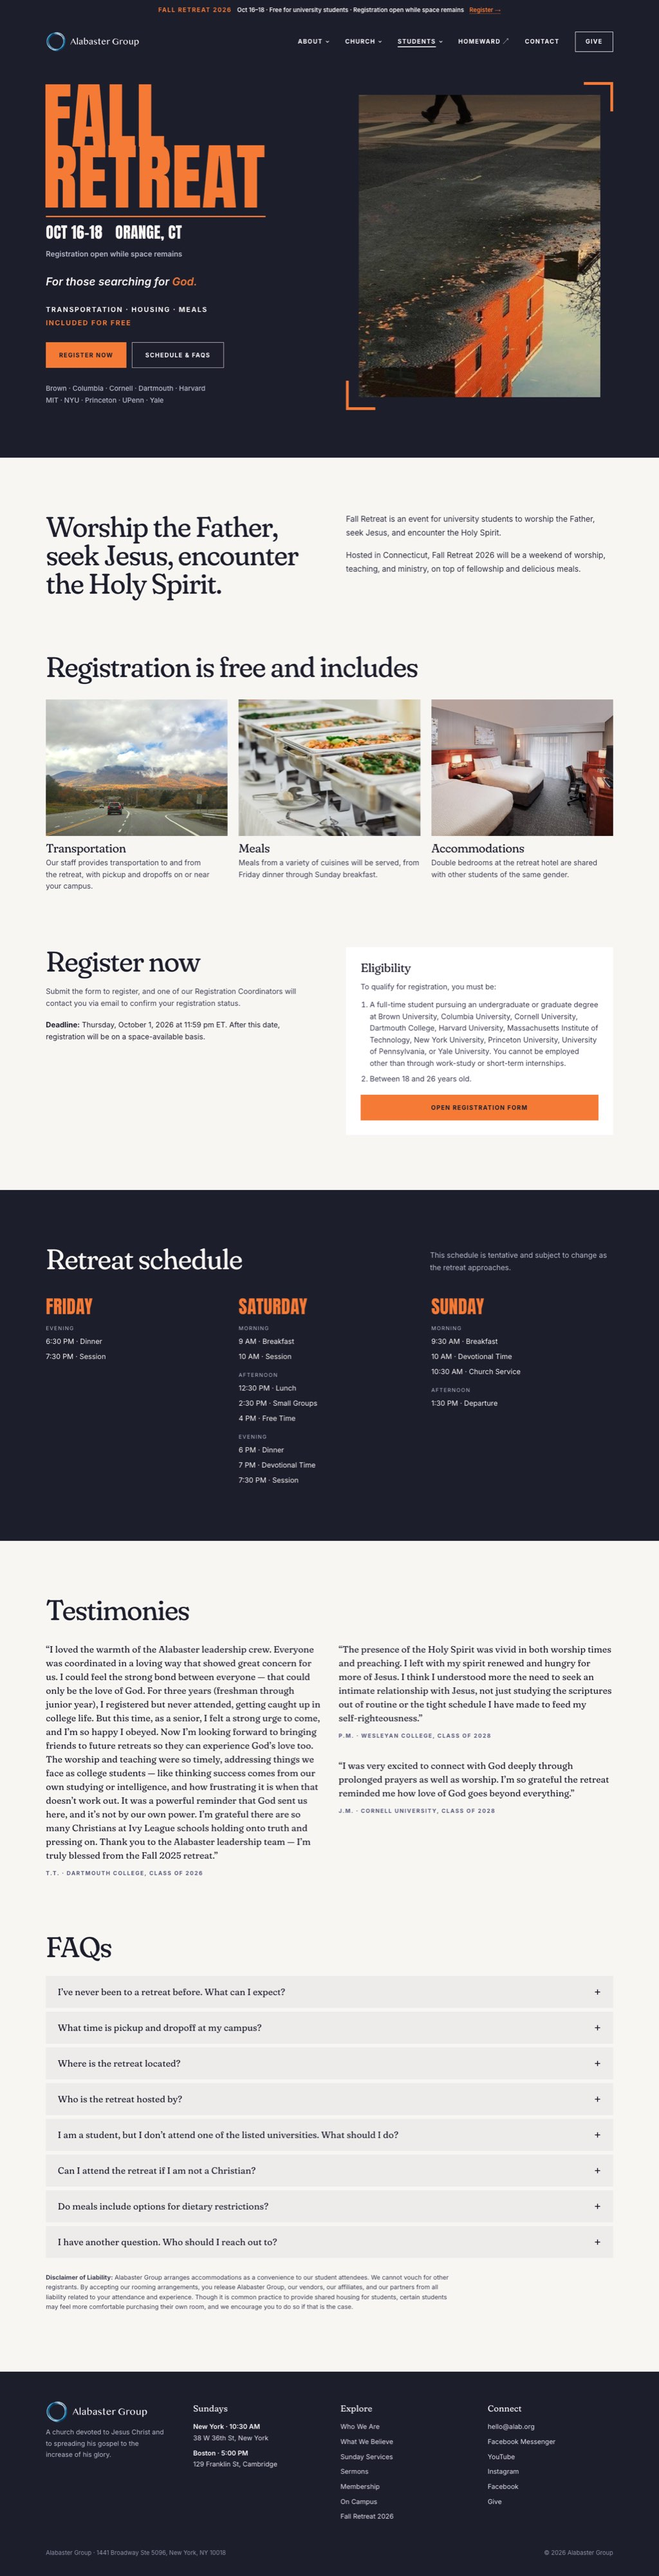
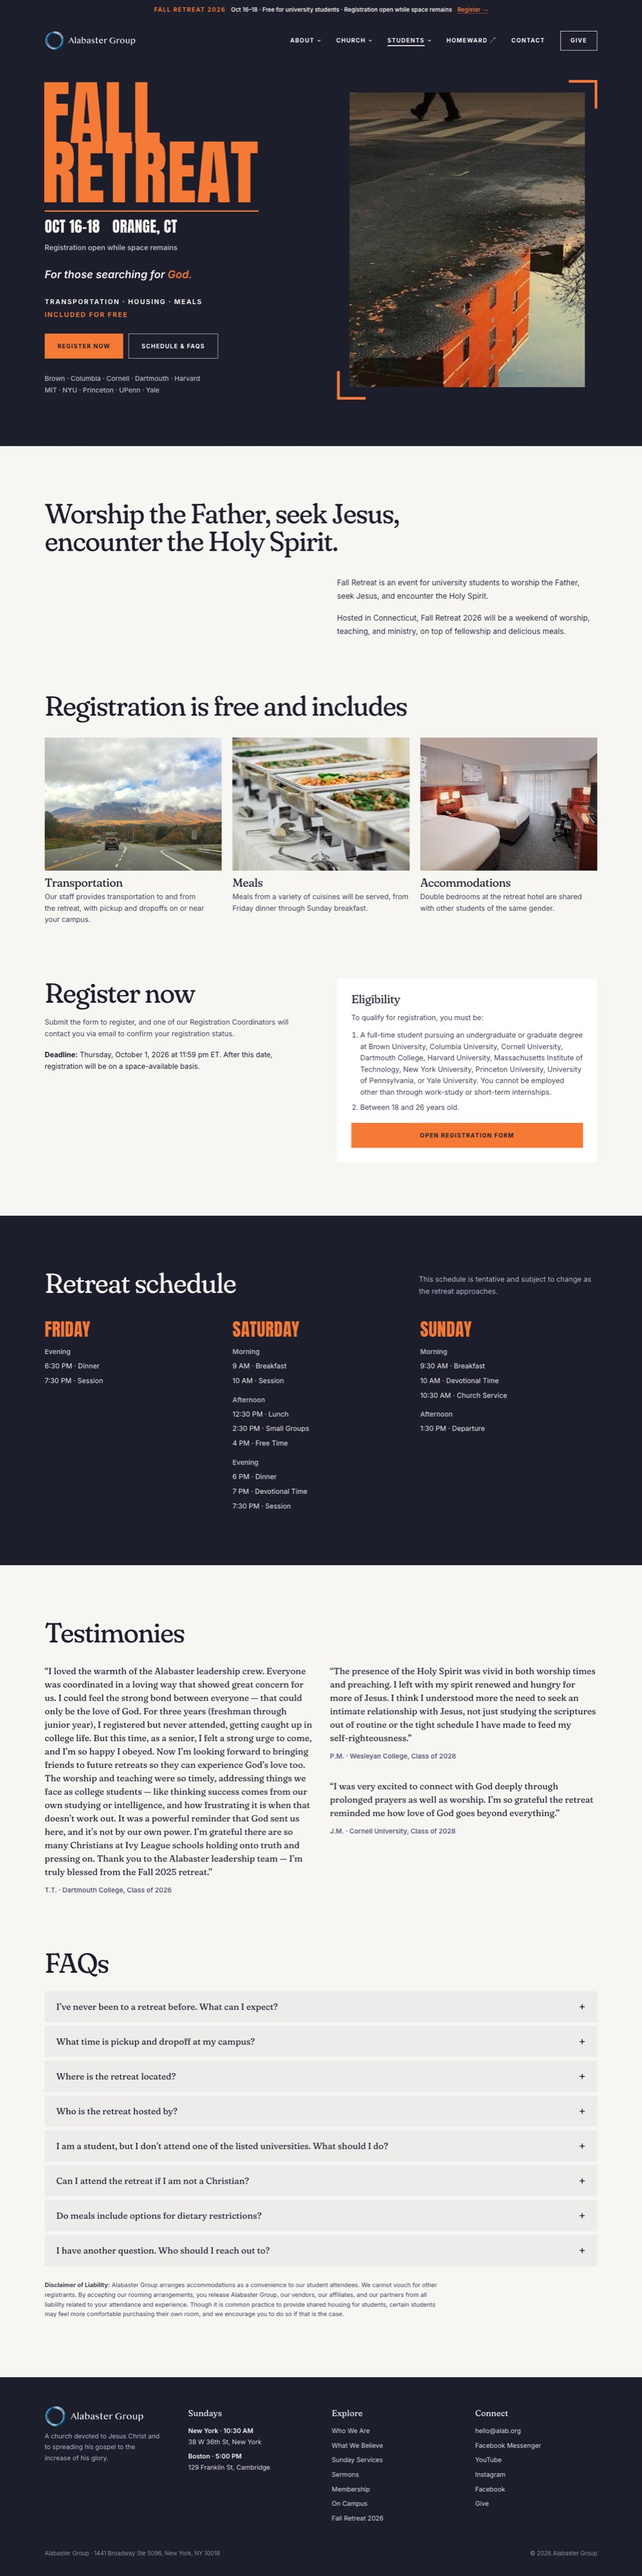
Taste pass on every page: statements, member labels, schedule, motion
- Statement quotes capped at statement size (Who We Are, Give)
- Member details, verse references, testimonies, retreat schedule:
  sentence case at 13-15px instead of tiny tracked caps
- Fall Retreat intro heading gets the full width (2 lines on desktop)
- Statement-of-faith heading sticky only on desktop (was covering
  the list on phones)
- Sermons page: hairline removed
- Page titles without a cover photo rise on load

Taste inspector, all pages: remaining FAILs are the photo scrims,
"few pictures" on text pages, and two false positives.

diff --git a/public/css/site.css b/public/css/site.css
@@ -731,3 +731,27 @@ h2 em, h3 em { font-style: normal; }
 .footer-grid .head { font-family: var(--serif); font-variation-settings: 'SOFT' 100; font-size: 19px; font-weight: 400; letter-spacing: 0; text-transform: none; color: var(--white); margin-bottom: 4px; }
 .schools { text-transform: none; letter-spacing: 0; font-size: 15px; font-weight: 500; line-height: 1.7; }
 .announce strong { font-size: 13px; }
+
+/* Taste pass, all pages */
+/* Statements stay at statement size (≤34px desktop, ≤24px phone) */
+.quote-lg { font-size: clamp(22px, 2.4vw, 34px); line-height: 1.3; }
+/* Sticky column only where it sits beside its list */
+@media (min-width: 901px) { .sticky-col { position: sticky; top: 100px; } }
+/* Member details and verse references: sentence case, readable */
+.person__role { font-size: 15px; font-weight: 600; letter-spacing: 0; text-transform: none; color: var(--ink); }
+.person dt { font-size: 13px; font-weight: 600; letter-spacing: 0; text-transform: none; color: var(--label); }
+.person dl, .person__key { font-size: 15px; }
+.verse cite { font-size: 15px; font-weight: 600; letter-spacing: 0; text-transform: none; }
+/* Pages without a cover photo: the title block rises on load */
+@media (prefers-reduced-motion: no-preference) {
+  .page-title > * { animation: rise 0.9s var(--ease-out) both; }
+  .page-title > :nth-child(2) { animation-delay: 80ms; }
+  .page-title > :nth-child(3) { animation-delay: 160ms; }
+  .page-title > :nth-child(4) { animation-delay: 240ms; }
+}
+.testimony cite { font-size: 15px; font-weight: 600; letter-spacing: 0; text-transform: none; }
+.person details summary { font-size: 14px; letter-spacing: 0.04em; text-transform: none; font-weight: 600; }
+.campus__head .eyebrow { font-size: 14px; letter-spacing: 0; text-transform: none; font-weight: 600; }
+.h2-wide { max-width: 22ch; margin-bottom: 48px; }
+@media (max-width: 900px) { .split > div:empty { display: none; } .h2-wide { margin-bottom: 28px; } }
+.schedule__day .part { font-size: 15px; font-weight: 600; letter-spacing: 0; text-transform: none; }

diff --git a/src/pages/what-we-believe.html b/src/pages/what-we-believe.html
@@ -17,7 +17,7 @@ description: Our statement of faith, core principles and paradigmatic verses.
 
 <section id="faith" class="wrap section">
 <div class="split">
-<div class="stack gap-m" style="position: sticky; top: 100px;"><h2>Statement <em>of faith</em></h2></div>
+<div class="stack gap-m sticky-col"><h2>Statement <em>of faith</em></h2></div>
 <ol class="faith">
 <li><span class="num">1</span><p>There is one God, the Creator and Sustainer of all things seen and unseen and the sovereign Lord over all. He exists eternally in three persons: the Father, the Son, and the Holy Spirit.</p></li>
 <li><span class="num">2</span><p>The Bible is the inspired, authoritative, and trustworthy word of God on all matters of faith, conduct, and doctrine.</p></li>

diff --git a/src/pages/sermons.html b/src/pages/sermons.html
@@ -12,7 +12,7 @@ header: solid
 <h2>Recent <em>sermons</em></h2>
 <p>Our past sermons are available for listening as podcasts on Spotify, Apple Podcasts, and PodBean. Every New York service is also streamed live on YouTube.</p>
 </div>
-<div class="stack" style="border-bottom: 1px solid var(--line);">
+<div class="stack">
 {{#each sermons.all}}<a class="episode" href="{{this.url}}" style="padding: 20px 0;"><span class="episode__play">{{> play}}</span><span class="episode__title">{{this.title}}</span><span class="episode__date">{{this.long}}</span></a>{{/each}}
 </div>
 <div class="btn-row" style="margin-top: 40px;">

diff --git a/src/pages/fr-26.html b/src/pages/fr-26.html
@@ -8,10 +8,9 @@ header: solid
 </section>
 
 <section class="wrap section">
+<h2 class="h2-wide">Worship the Father, seek Jesus, <em>encounter the Holy Spirit.</em></h2>
 <div class="split">
-<div class="stack gap-m">
-<h2>Worship the Father, seek Jesus, <em>encounter the Holy Spirit.</em></h2>
-</div>
+<div></div>
 <div class="prose">
 <p>Fall Retreat is an event for university students to worship the Father, seek Jesus, and encounter the Holy Spirit.</p>
 <p>Hosted in Connecticut, Fall Retreat 2026 will be a weekend of worship, teaching, and ministry, on top of fellowship and delicious meals.</p>

diff --git a/docs/test-plan/README.md b/docs/test-plan/README.md
@@ -1,6 +1,6 @@
 # Test plan
 
-Generated 2026-10-16 11:51 by `scripts/test_plan.py` from a fresh build.
+Generated 2026-10-16 18:22 by `scripts/test_plan.py` from a fresh build.
 
 ## Automated checks
 
